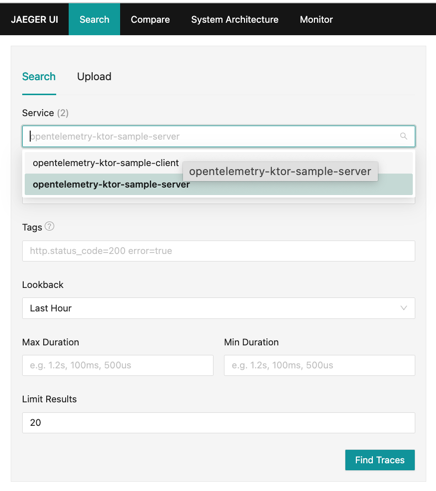
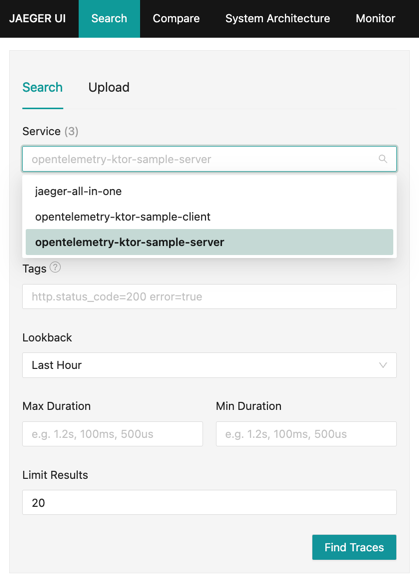
Fix README

diff --git a/opentelemetry/README.md b/opentelemetry/README.md
@@ -1,40 +1,12 @@
 # OpenTelemetry-Ktor Demo
 
-## Running
+[OpenTelemetry](https://opentelemetry.io/) provides support for Ktor with the `KtorClientTracing`and `KtorServerTracing`
+plugins for the Ktor client and server respectively. For the source code, see
+the [repository on GitHub](https://github.com/open-telemetry/opentelemetry-java-instrumentation/tree/main/instrumentation/ktor).
 
-**Note:** You need to have [Docker](https://www.docker.com/) installed and running to run the sample.
+This project contains extension functions for plugins that allow you to write code in the Ktor DSL style.
 
-To run a sample, first, execute the following command in an `opentelemetry` directory:
-
-```bash
-./gradlew :runWithDocker
-```
-
-It will start a `Jaeger` in the docker container (`Jaeger UI` available on http://localhost:16686/search) and
-then it will start a `server` on http://localhost:8080/
-
-Then, to run the client, which will send requests to a server, you can execute the following command in
-an `opentelemetry` directory:
-
-```bash
-./gradlew :client:run
-```
-
-[OpenTelemetry](https://opentelemetry.io/) has support for `Ktor`, you can find source
-code [here](https://github.com/open-telemetry/opentelemetry-java-instrumentation/tree/main/instrumentation/ktor).
-It contains plugins for client and server: `KtorClientTracing` and `KtorServerTracing`.
-
-**Note:** In this example, we use
-an [Autoconfiguration OpenTelemetry instance](https://opentelemetry.io/docs/languages/java/instrumentation/#automatic-configuration),
-we set environment variables `OTEL_METRICS_EXPORTER` and `OTEL_EXPORTER_OTLP_ENDPOINT`
-in [build.gradle.kts](./build.gradle.kts) file.
-You can find more information about these environment variables
-in the [OpenTelemetry documentation](https://opentelemetry.io/docs/languages/sdk-configuration/).
-
-## Motivation
-
-This project contains extension functions for plugins that allow you to write code in the Ktor DSL style. \
-For example, you can rewrite the next code:
+Take the following code as an example:
 
 ```kotlin
 install(KtorServerTracing) {
@@ -56,7 +28,7 @@ install(KtorServerTracing) {
 }
 ```
 
-To a more readable for `Ktor` style:
+Rewritten in Ktor DSL style, it looks like the following:
 
 ```kotlin
 install(KtorServerTracing) {
@@ -75,14 +47,41 @@ the [extractions](./client/src/main/kotlin/opentelemetry/ktor/example/plugins/op
 And you can find all extensions for the server plugin `KtorServerTracing` in
 the [extractions](./server/src/main/kotlin/opentelemetry/ktor/example/plugins/opentelemetry/extractions/) folder.
 
-## Examples
+## Running
 
-Let's see what we will see in the `Jaeger UI` after running the server (with Docker) and client:
+**Note:** You need to have [Docker](https://www.docker.com/) installed and running to run the sample.
 
-1. We can see two services that send opentelemetry data: `opentelemetry-ktor-sample-server`
-   and `opentelemetry-ktor-sample-client`:
+To run this sample, execute the following command from the `opentelemetry` directory::
+
+```bash
+./gradlew :runWithDocker
+```
+
+It will start a `Jaeger` in the docker container (`Jaeger UI` available on http://localhost:16686/search) and
+then it will start a `server` on http://localhost:8080/
+
+Then, to run the client, which will send requests to a server, you can execute the following command in
+an `opentelemetry` directory:
+
+```bash
+./gradlew :client:run
+```
+
+**Note:** In this example, we use
+an [Autoconfiguration OpenTelemetry instance](https://opentelemetry.io/docs/languages/java/instrumentation/#automatic-configuration),
+we set environment variables `OTEL_METRICS_EXPORTER` and `OTEL_EXPORTER_OTLP_ENDPOINT`
+in [build.gradle.kts](./build.gradle.kts) file.
+You can find more information about these environment variables
+in the [OpenTelemetry documentation](https://opentelemetry.io/docs/languages/sdk-configuration/).
+
+Let's check what we will see in the `Jaeger UI` after running the server (with Docker) and the client:
+
+1. We can see two our services that send opentelemetry data: `opentelemetry-ktor-sample-server`
+   and `opentelemetry-ktor-sample-client`, and service `jaeger-all-in-one`, it's `Jaeger` tracing some of
+   its components:
    ![img.png](images/1.png)
-2. If we choose `opentelemetry-ktor-sample-server` service, we will see the next traces:
+2. If you select `opentelemetry-ktor-sample-server` service and click on **Find traces**, you will see a list of traces:
    ![img.png](images/2.png)
-3. And if we choose one of the traces:
+3. If you click on one of those traces, you will be navigated to a screen providing detailed information about the
+   selected trace:
    ![img.png](images/3.png)
